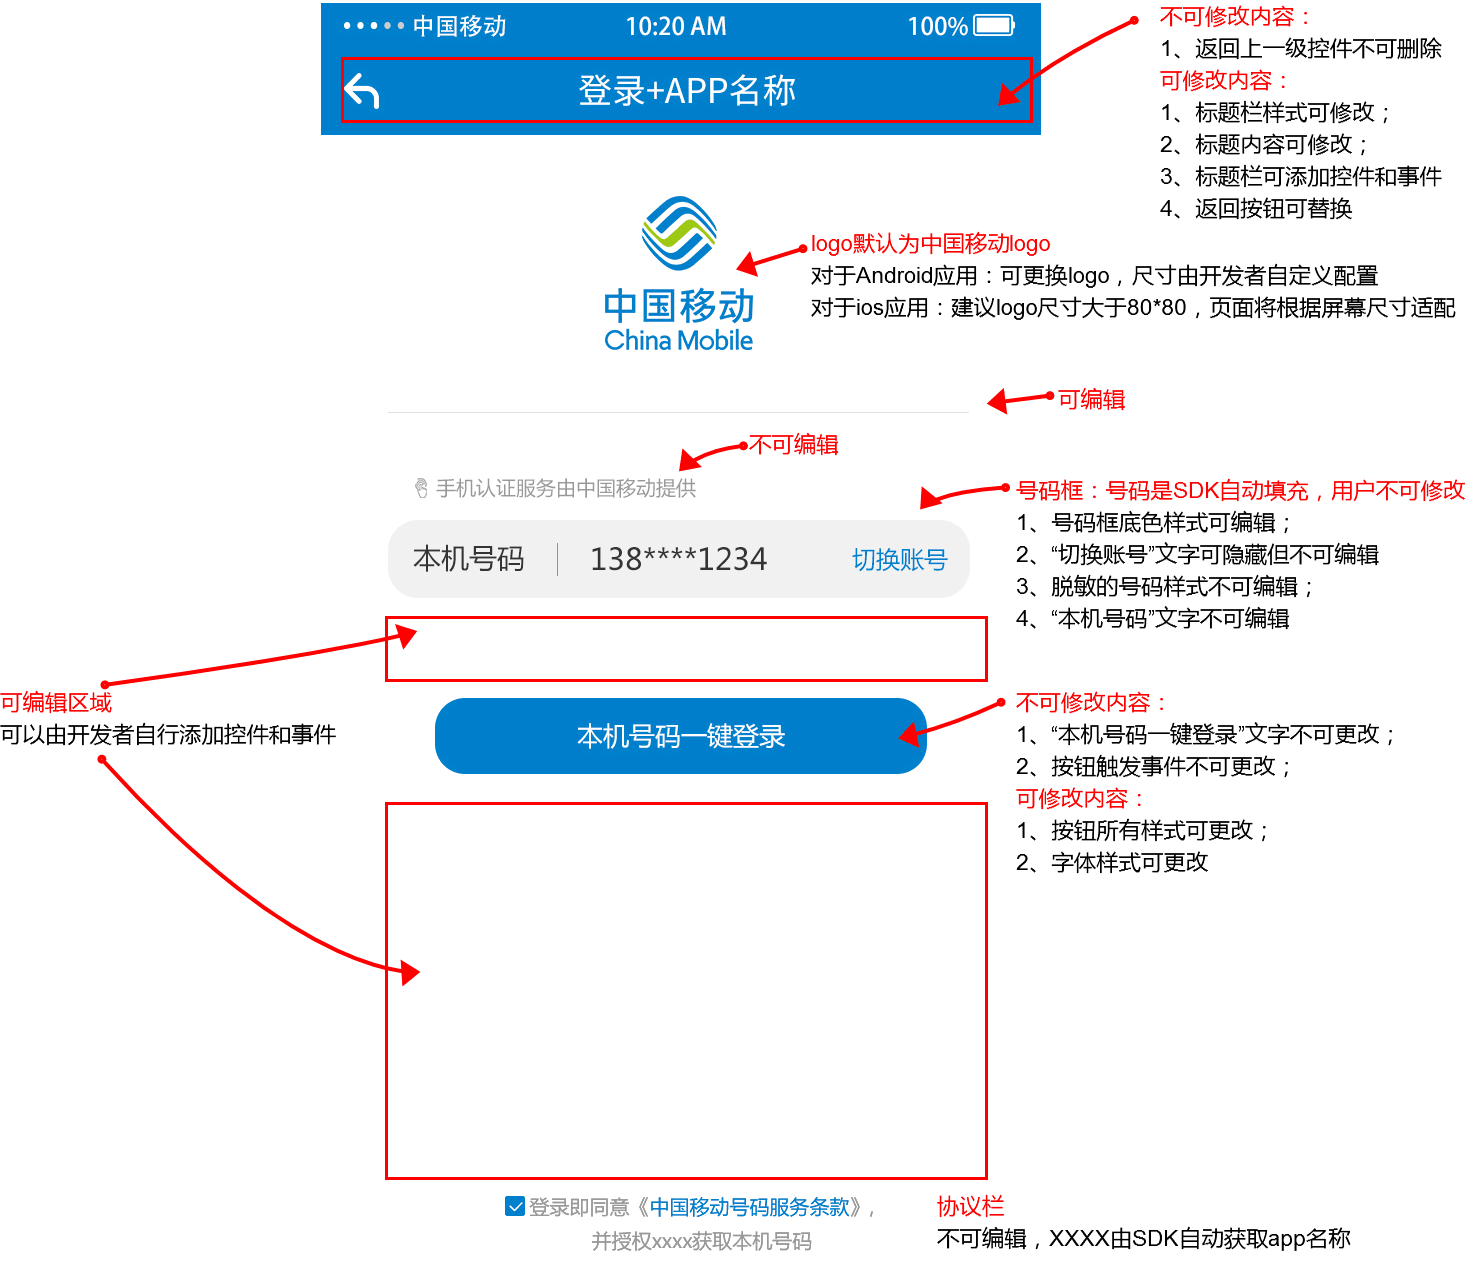
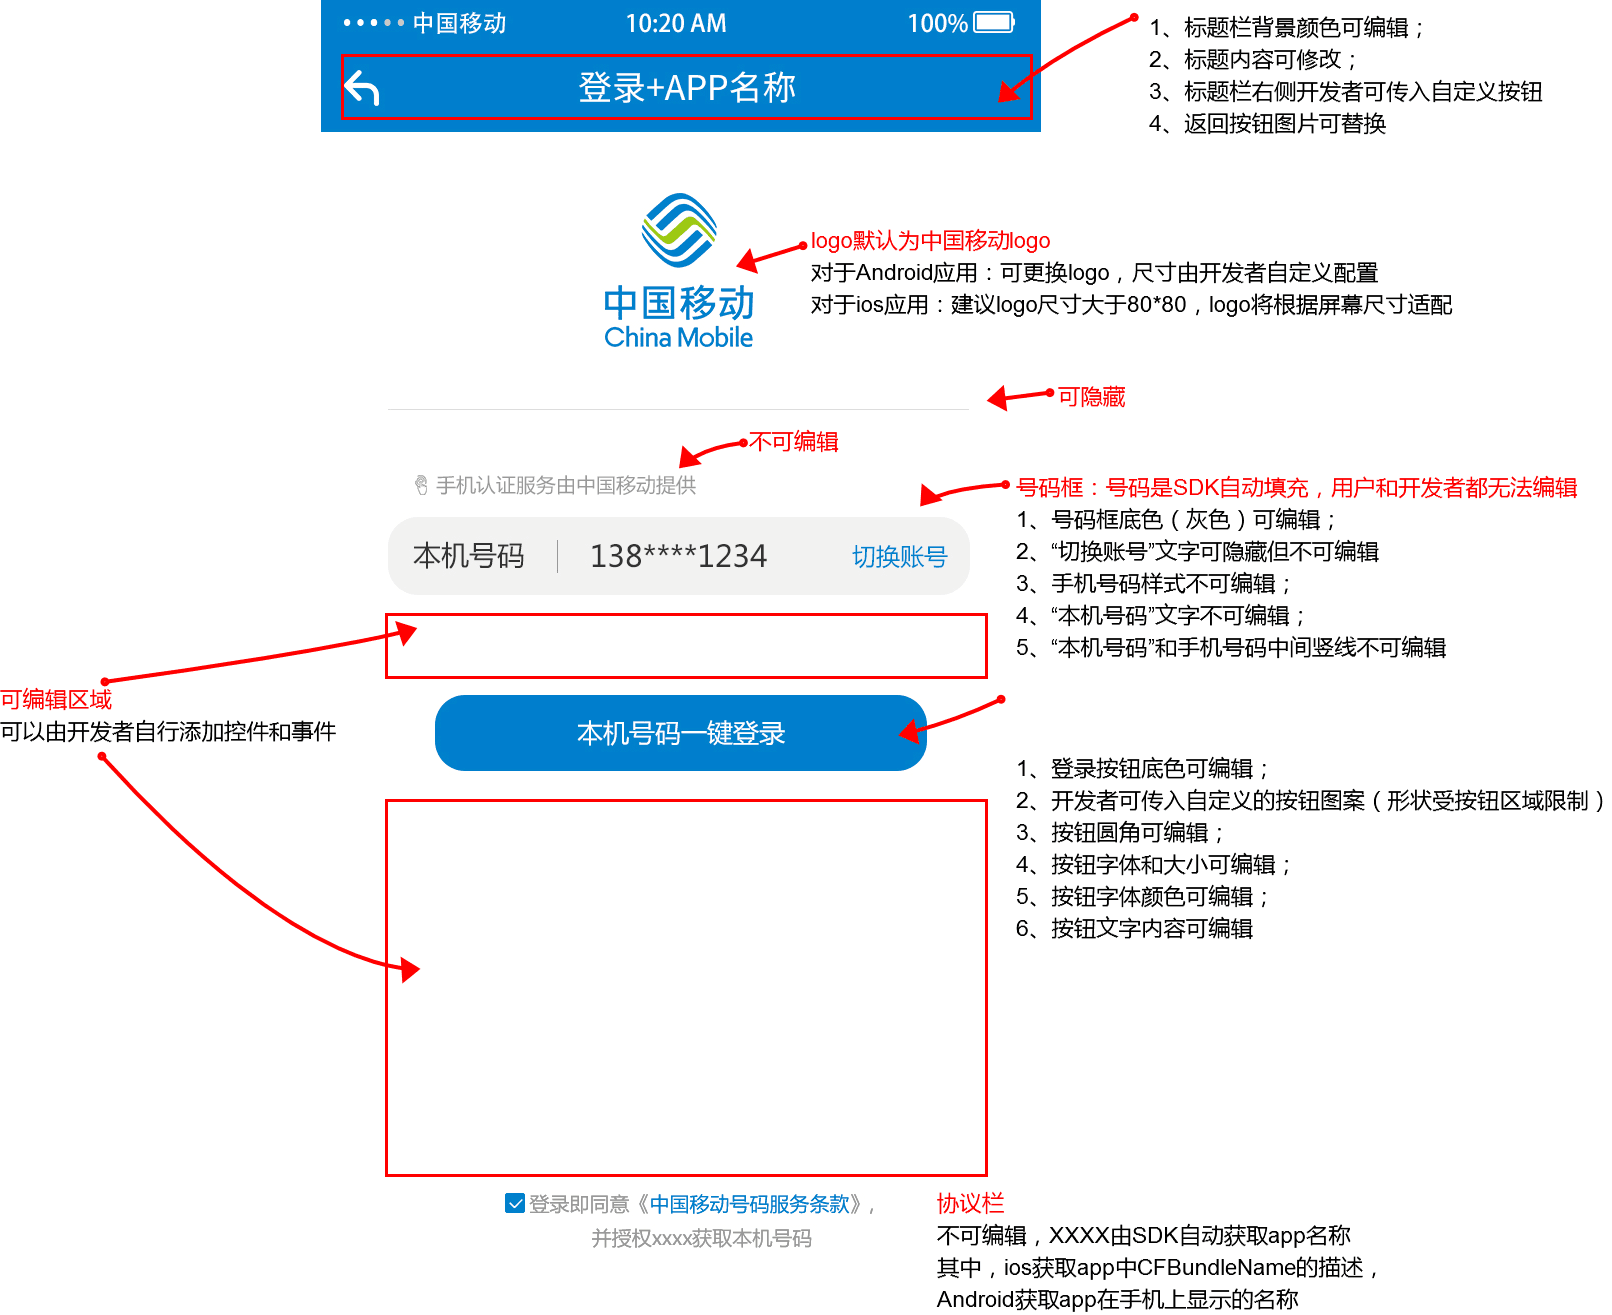
增加sdk使用的网络环境提示 修改短验页授权页可编辑内容

diff --git a/一键登录-Android.md b/一键登录-Android.md
@@ -1,5 +1,8 @@
 # 1. 开发环境配置
-sdk技术问题沟通QQ群：609994083
+sdk技术问题沟通QQ群：609994083</br>
+
+**注：SDK在获取token过程中，用户手机必须在打开数据网络情况下才能获取成功，纯wifi环境下会自动跳转到SDK的短信验证码页面（如果有配置）或者返回错误码**
+
 ## 1.1. 总体使用流程
 
 1. 调用SDK方法来获得`token`，步骤如下：
@@ -366,7 +369,7 @@ mAuthnHelper.getTokenImp(Constant.APP_ID, Constant.APP_KEY,mListener);
 
 ## 2.5. 资源界面配置说明
 
-SDK**登录授权页**和**短信验证码页面**的布局文件已部分开放给开发者，支持部分元素和布局自定义，如开发者不需自定义，则使用SDK提供的默认样式</br>
+SDK**登录授权页**和**短信验证码页面**部分元素可供开发者编辑，如开发者不需自定义，则使用SDK提供的默认样式，建议开发者按照开发者自定义规则个性化授权页面和短信验证页面：
 
 ###2.5.1. 授权登录页面 
 
@@ -384,15 +387,17 @@ SDK**登录授权页**和**短信验证码页面**的布局文件已部分开放
 
 ### 3.1.1. 业务流程
 
+SDK在获取token过程中，用户手机必须在打开数据网络情况下才能获取成功，纯wifi环境下会自动跳转到SDK的短信验证码页面（如果有配置）或者返回错误码
+
 ![](image/19.png)
 
 ### 3.1.2. 接口说明
 
 **功能**
 
-业务平台或服务端携带用户授权成功后的token来调用统一认证服务端获取用户信息。
+业务平台或服务端携带用户授权成功后的token来调用统一认证服务端获取用户信息。**注：本接口仅适用于5.3.0及以上版本SDK**
 
-**请求地址：**
+**请求地址：**https://www.cmpassport.com/unisdk/rsapi/loginTokenValidate
 
 **协议：** HTTPS 
 
@@ -406,16 +411,16 @@ SDK**登录授权页**和**短信验证码页面**的布局文件已部分开放
 
 **请求参数**
 
-| 参数           |   类型   |  约束  | 说明                                       |      |
-| :----------- | :----: | :--: | :--------------------------------------- | ---- |
-| version      | string |  必选  | 填2.0                                     |      |
-| msgid        | string |  必选  | 标识请求的随机数即可(1-36位)                        |      |
-| systemtime   | string |  必选  | 请求消息发送的系统时间，精确到毫秒，共17位，格式：20121227180001165 |      |
-| strictcheck  | string |  必选  | 暂时填写"0"                                  |      |
-| appid        | string |  必选  | 业务在统一认证申请的应用id                           |      |
-| expandparams | string |  可选  | 扩展参数                                     |      |
-| sign         | string |  必选  | 签名，MD5（appid + version + msgid + systemtime + strictcheck + token + appkey)（注：“+”号为合并意思，不包含在被加密的字符串中） |      |
-| token        | string |  必选  | 需要解析的凭证值。                                |      |
+| 参数           |   类型   |  约束  |      | 说明                                       |
+| :----------- | :----: | :--: | :--- | ---------------------------------------- |
+| version      | string |  必选  |      | 填2.0                                     |
+| msgid        | string |  必选  |      | 标识请求的随机数即可(1-36位)                        |
+| systemtime   | string |  必选  |      | 请求消息发送的系统时间，精确到毫秒，共17位，格式：20121227180001165 |
+| strictcheck  | string |  必选  |      | 暂时填写"0"                                  |
+| appid        | string |  必选  |      | 业务在统一认证申请的应用id                           |
+| expandparams | string |  可选  |      | 扩展参数                                     |
+| sign         | string |  必选  |      | 签名，MD5（appid + version + msgid + systemtime + strictcheck + token + appkey)（注：“+”号为合并意思，不包含在被加密的字符串中） |
+| token        | string |  必选  |      | 需要解析的凭证值。                                |
 
 </br>
 
@@ -464,6 +469,8 @@ SDK**登录授权页**和**短信验证码页面**的布局文件已部分开放
 ## 3.2. 本机号码校验接口
 
 ### 3.2.1. 业务流程
+
+SDK在获取token过程中，用户手机必须在打开数据网络情况下才能获取成功，纯wifi环境下会自动跳转到SDK的短信验证码页面（如果有配置）或者返回错误码
 
 ![1](image\1.1.png)
 
@@ -603,8 +610,8 @@ SDK**登录授权页**和**短信验证码页面**的布局文件已部分开放
 | 200004 | 复用中间件二次登录              |
 | 200005 | 用户未授权READ_PHONE_STATE  |
 | 200006 | 用户未授权SEND_SMS          |
-| 200007 | 不支持的认证方式 跳到短信验证码登录     |
-| 200008 | 不支持的认证方式 没有短信验证码登录功能   |
+| 200007 | 不支持的认证方式跳到短信验证码登录      |
+| 200008 | 不支持的认证方式没有短信验证码登录功能    |
 | 200009 | 应用合法性校验失败              |
 | 200010 | imsi获取失败或者没有sim卡，预取号失败 |
 
